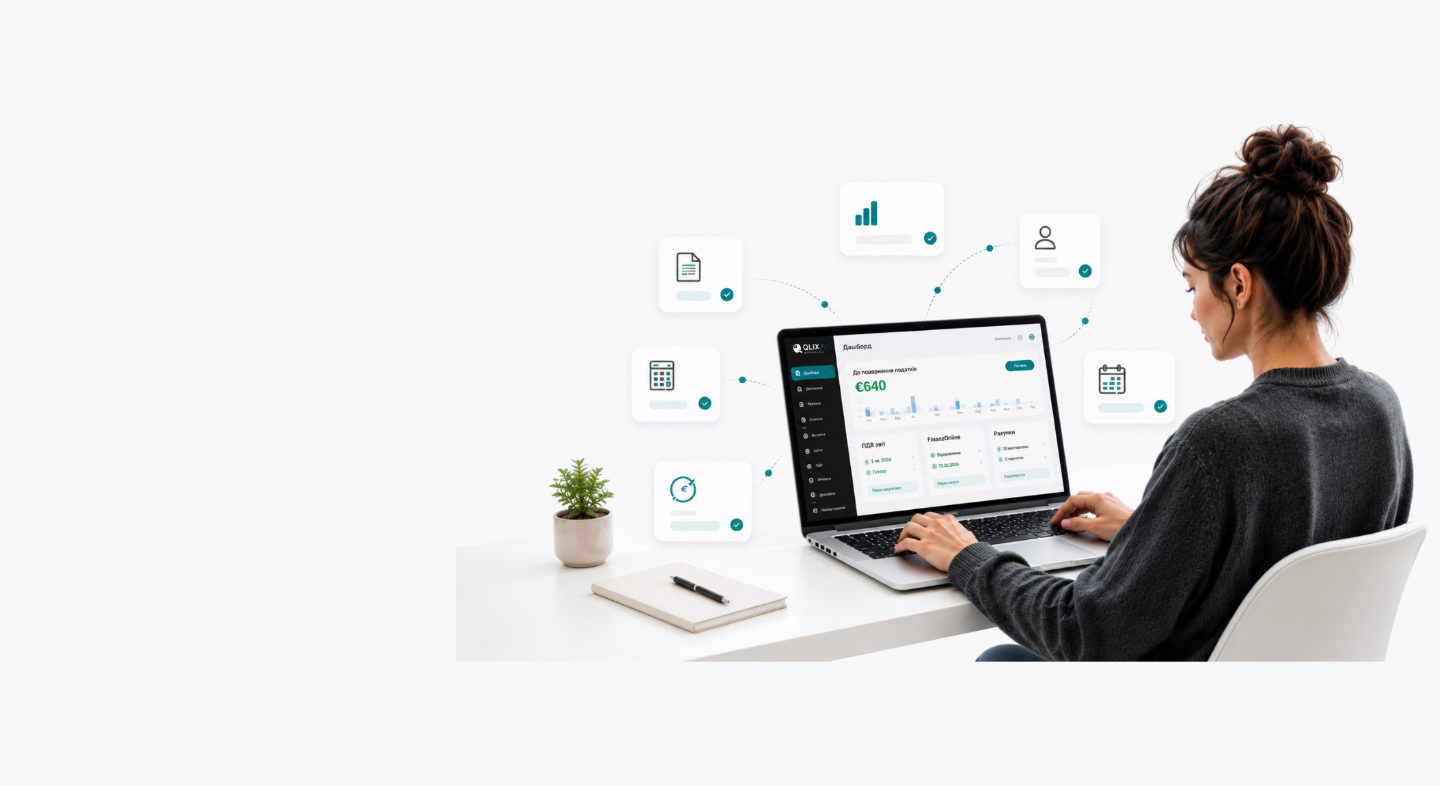
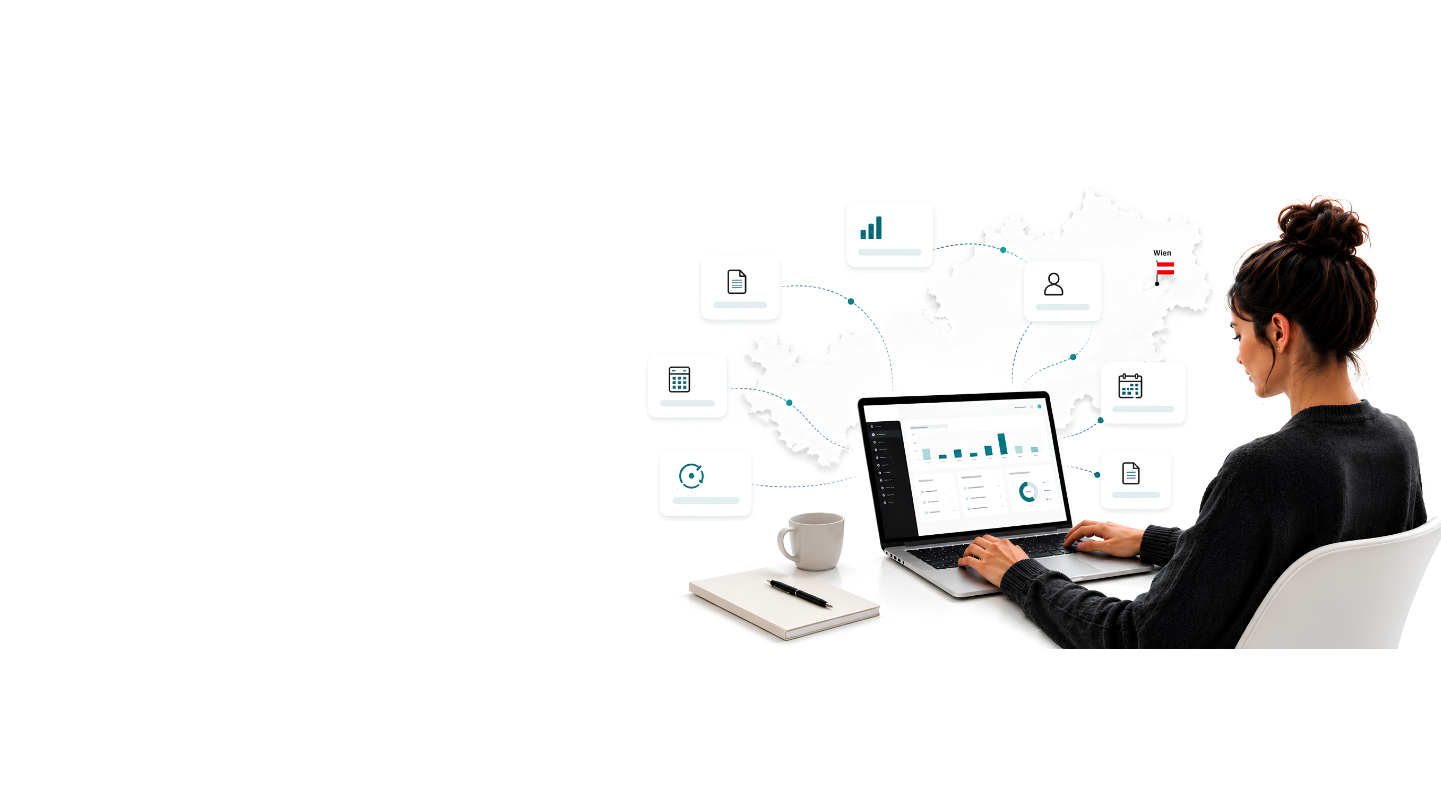
Hero section

diff --git a/src/app/page.tsx b/src/app/page.tsx
@@ -976,9 +976,10 @@ export default function HomePage() {
             </h2>
           </div>
           {[
-            { icon: '😰', q: 'Я боюся зробити помилку в декларації — що буде?', a: 'QLIXA перевіряє дані перед відправкою і підсвічує підозрілі моменти. Всі гайди написані практикуючими експертами. Якщо щось незрозуміло — є пояснення до кожного поля простою мовою.' },
+            { icon: '😰', q: 'Самозайнятий: боюся зробити помилку в декларації — що буде?', a: 'QLIXA допоможе зібрати та впорядкувати всі дані за рік, якщо ведеш бухгалтерію на платформі. Ми підкажемо, на що звернути увагу для вигіднішого заповнення — наприклад, які витрати можна списати і як правильно їх задокументувати. Проте памʼятай: QLIXA — це цифровий помічник, а не бухгалтер чи Steuerberater. Якщо маєш складну ситуацію або сумніви — рекомендуємо додатково проконсультуватись із Steuerberater.' },
+            { icon: '💼', q: 'Найманий працівник: чи можу я повернути свої податки?', a: 'В Австрії роботодавець автоматично подає базові дані про твою зарплату до податкової — але він не вникає в твою особисту ситуацію. Саме тому більшість найманих працівників можуть самостійно подати Arbeitnehmerveranlagung і повернути частину сплачених податків. QLIXA допоможе розібратись саме у твоїй ситуації: знайде всі витрати, які можна врахувати — home office, транспорт, навчання, діти та інше. Просто і швидко, без складних термінів.' },
             { icon: '🇩🇪', q: 'Я не говорю по-німецьки — зможу розібратись?', a: 'Так, саме для цього і створена QLIXA. Платформа повністю доступна українською, російською та англійською. Всі австрійські терміни перекладені і пояснені простими словами.' },
-            { icon: '🆕', q: 'Я тільки відкрив Gewerbe. З чого почати?', a: 'Є спеціальний маршрут «Початківцям»: Austria ID → GISA → SVS → FinanzOnline. Кожен крок з поясненням що і навіщо. Плюс автоматичне нагадування про перший звіт.' },
+            { icon: '🆕', q: 'Я тільки відкрив Gewerbe. З чого почати?', a: 'Вітаємо з відкриттям! Ось з чого варто почати в QLIXA: підключи бухгалтерію — фіксуй доходи і витрати з першого дня; виставляй рахунки клієнтам прямо з платформи; стеж за дашбордом — він покаже загальну картину твого бізнесу в реальному часі. А щоб не загубитись у перших кроках — читай наші покрокові гайди у розділі Статті.' },
             { icon: '💰', q: 'Що саме я можу списати як витрати?', a: 'Дуже багато: ноутбук, телефон, інтернет, частина оренди (home office), курси, підписки на програми, транспорт до клієнтів і десятки інших категорій. QLIXA покаже всі варіанти для твоєї ситуації.' },
             { icon: '🔒', q: 'Мої фінансові дані в безпеці?', a: 'Так. Сервери в ЄС, відповідність GDPR. Ми не передаємо дані третім особам. Ти можеш видалити акаунт і всі дані в будь-який момент.' },
           ].map((item, i) => (

diff --git a/src/app/for/samostiynyy/page.tsx b/src/app/for/samostiynyy/page.tsx
@@ -22,8 +22,8 @@ export default function Page() {
           {/* RIGHT — text */}
           <div style={{ flex: 1, minWidth: 0 }}>
             <div style={{ display: 'inline-block', padding: '5px 16px', borderRadius: 999, background: 'rgba(3,131,144,0.1)', border: '1px solid rgba(3,131,144,0.25)', fontSize: 11, fontWeight: 700, letterSpacing: '2px', textTransform: 'uppercase', color: '#038390', marginBottom: 20 }}>Для кого</div>
-            <h1 style={{ fontFamily: 'DM Serif Display, serif', fontSize: 'clamp(36px,5vw,56px)', fontWeight: 400, color: '#1A1A1A', lineHeight: 1.1, letterSpacing: '-1.5px', marginBottom: 20 }}>Самозайнятий</h1>
-            <p style={{ fontSize: 17, color: '#595959', lineHeight: 1.75, marginBottom: 16, maxWidth: 480 }}>Neue Selbstständige або Gewerbe — QLIXA допоможе з бухгалтерією, звітами та дедлайнами. Без складних таблиць і бухгалтерів.</p>
+            <h1 style={{ fontFamily: 'DM Serif Display, serif', fontSize: 'clamp(36px,5vw,56px)', fontWeight: 400, color: '#1A1A1A', lineHeight: 1.1, letterSpacing: '-1.5px', marginBottom: 20 }}>Маєш капітальні та закордонні доходи</h1>
+            <p style={{ fontSize: 17, color: '#595959', lineHeight: 1.75, marginBottom: 16, maxWidth: 480 }}>Дохід від продажу акцій, нерухомості або з-за кордону? QLIXA розрахує KESt та інші зобов'язання точно і без помилок.</p>
             <div style={{ display: 'inline-block', padding: '8px 20px', borderRadius: 999, background: 'rgba(3,131,144,0.1)', border: '1px solid rgba(3,131,144,0.2)', fontSize: 12, fontWeight: 600, color: '#038390', marginBottom: 32 }}>Контент скоро буде</div>
             <div>
               <Link href="/" style={{ fontSize: 15, fontWeight: 700, color: '#038390', textDecoration: 'none', display: 'inline-flex', alignItems: 'center', gap: 6 }}>← Повернутись на головну</Link>